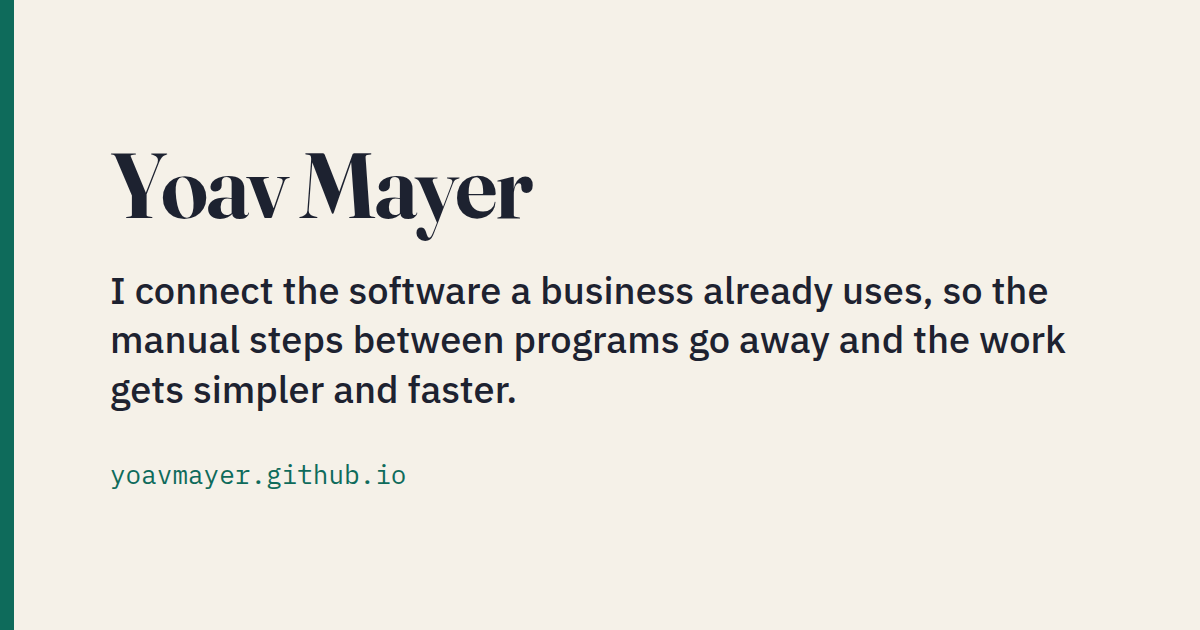
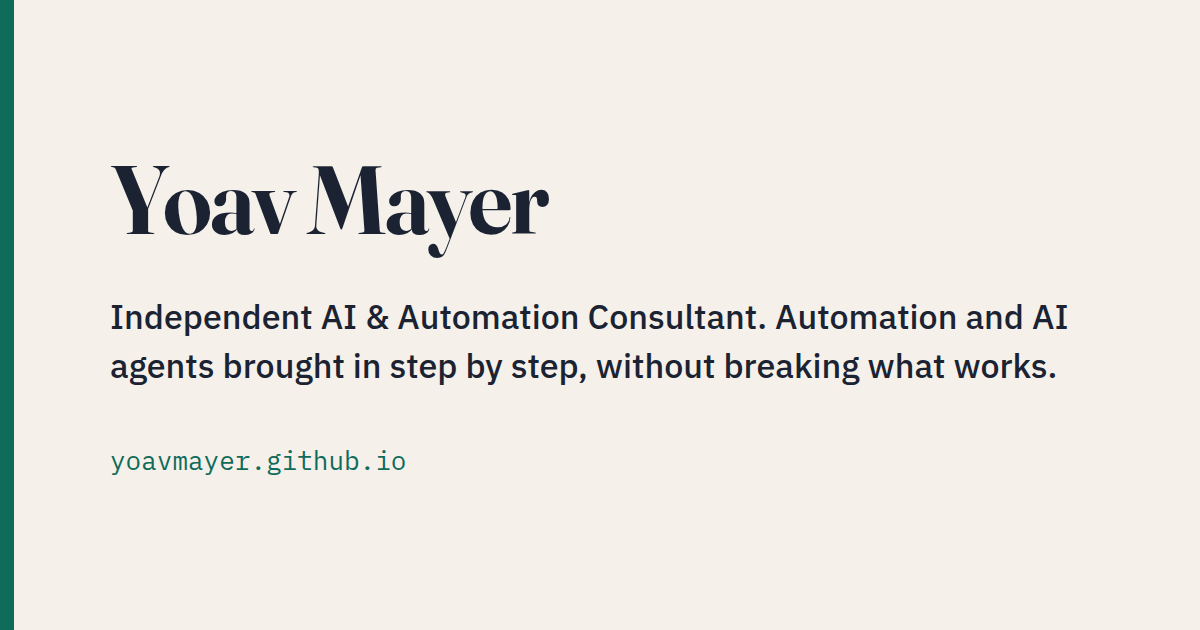
Hero and meta: independent AI & automation consultant positioning (owner approved 24.11)

Changed region(s): [[0.0925, 0.4222, 0.8942, 0.6635], [0.0925, 0.2413, 0.4625, 0.4222], [0.0925, 0.7238, 0.3392, 0.7841]]

diff --git a/index.html b/index.html
@@ -3,10 +3,10 @@
 <head>
 <meta charset="utf-8">
 <meta name="viewport" content="width=device-width, initial-scale=1">
-<title>Yoav Mayer, AI Solutions Engineer</title>
-<meta name="description" content="Yoav Mayer, AI Solutions Engineer. I connect a company's systems and automate the manual work between them, with AI where it beats plain code.">
-<meta property="og:title" content="Yoav Mayer, AI Solutions Engineer">
-<meta property="og:description" content="I connect a company's systems and automate the manual work between them, with AI where it beats plain code.">
+<title>Yoav Mayer, Independent AI &amp; Automation Consultant</title>
+<meta name="description" content="Yoav Mayer, independent AI and automation consultant. I bring automation and AI agents into businesses and software companies, starting from where the team stands today.">
+<meta property="og:title" content="Yoav Mayer, Independent AI &amp; Automation Consultant">
+<meta property="og:description" content="I bring automation and AI agents into businesses and software companies, starting from where the team stands today.">
 <meta property="og:type" content="website">
 <meta property="og:url" content="https://yoavmayer.github.io/">
 <meta property="og:image" content="https://yoavmayer.github.io/assets/og-image.png">
@@ -178,11 +178,10 @@
 
   <section class="hero">
     <h1>Yoav Mayer</h1>
-    <p class="role"><span>AI Solutions Engineer.</span> Hands-on AI agents, automation and integrations, without breaking what works.</p>
-    <p class="open">I work with companies whose systems don't share data: orders keyed in twice, reports assembled by hand, errors found only when a customer calls. I connect those systems and automate the checks, and I use AI where it beats plain code. Often an integration and a few rules are enough.</p>
-    <p class="open">Have work like that? Send me one example, and in a short call I will tell you whether it can be automated and what it takes. <a href="mailto:yoavmayer@gmail.com">yoavmayer@gmail.com</a></p>
-    <p class="lede">Before going independent in March 2026, I spent seven years as team leader of the automation and software infrastructure team at Arad Technologies, in industrial R&amp;D. I wrote C#/.NET there from 2014 and have built with language models since early 2025.</p>
-    <p class="stack">Today: Python, TypeScript, a language model over its API (swappable) and Claude Code.</p>
+    <p class="role"><span>Independent AI &amp; Automation Consultant.</span> Automation and AI agents brought in step by step, without breaking what works.</p>
+    <p class="open">I bring automation and AI agents into businesses and software companies, starting from where the team stands today. If nothing is automated yet, I sit with the team, map the work that repeats every day and automate it. If the team already works with data and AI, I build agents and AI systems into how the team already works, so the work moves faster and the output gets better.</p>
+    <p class="open">Tell me where your team stands today, and in a short call I will tell you where I would start and what it takes. <a href="mailto:yoavmayer@gmail.com">yoavmayer@gmail.com</a></p>
+    <p class="lede">Before going independent in March 2026, I spent 12 years in industrial R&amp;D at Arad Technologies. For the last seven I led the automation and software infrastructure team, which owned the build, the releases and the test tooling for all of R&amp;D. Nothing went to production there before it was tested on the real system. I have built with language models since early 2025, and I work the same way today: changes go in step by step, someone on your side approves what matters, and what already works keeps working.</p>
   </section>
 
   <main>
